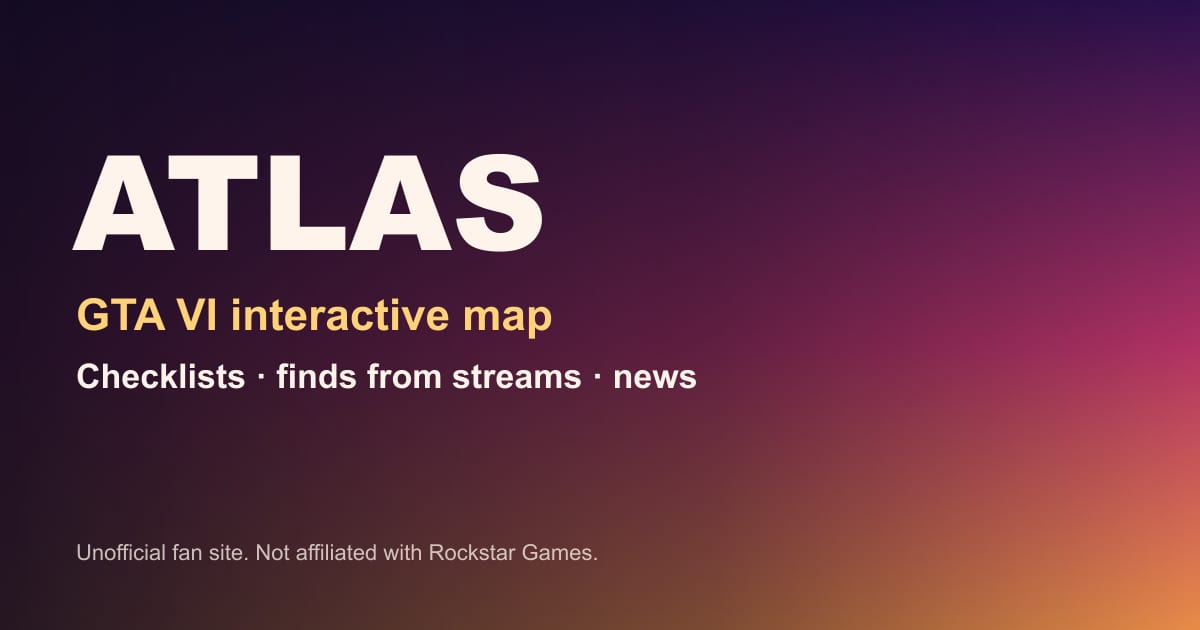
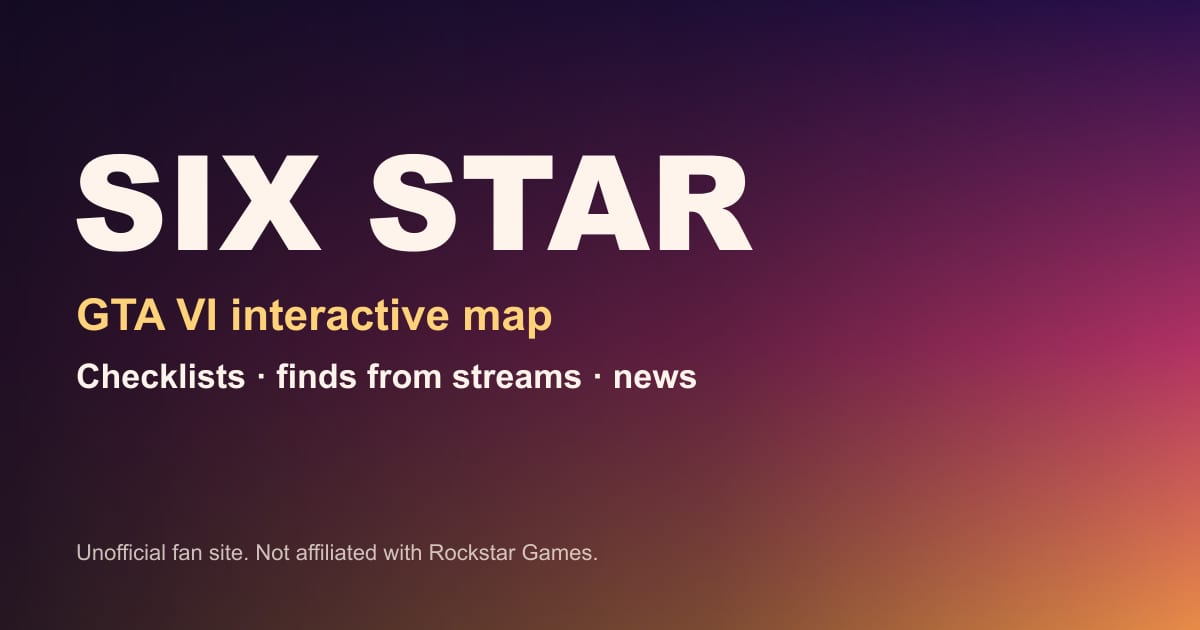
Attach sixstargta.com, rebrand to Six Star, open search engines
- wrangler: custom domains sixstargta.com + www, workers.dev off
- SITE.name "Six Star", indexable true, OG text regenerated
- npm run deploy: validate + build with the final URL + wrangler deploy
- Log the domain decision; refresh CONTEXT

Changed region(s): [[0.0617, 0.2413, 0.6475, 0.4222]]

diff --git a/src/config/site.ts b/src/config/site.ts
@@ -1,8 +1,8 @@
 import type { GameId } from "@/domain";
 
 export const SITE = {
-  /** Working title: final brand is decided after launch. */
-  name: "Atlas",
+  /** Brand (decided 2026-11-18, domain sixstargta.com). */
+  name: "Six Star",
   description: "Unofficial interactive map, checklists and guides for players.",
   gameId: "gta6" as GameId,
   defaultLocale: "en",
@@ -20,7 +20,7 @@ export const SITE = {
    * Search engines: false = robots.txt blocks crawling and pages say noindex. Turn on once the final
    * domain is attached, so search ranking is not built on the temporary workers.dev address.
    */
-  indexable: false,
+  indexable: true,
   /**
    * Cloudflare Web Analytics (cookieless, free). Dashboard > Analytics & Logs > Web Analytics > Add a site >
    * hostname > "Manage site" shows a JS snippet: paste only its token here. Empty = no analytics script.

diff --git a/CONTEXT.md b/CONTEXT.md
@@ -8,7 +8,7 @@ Owner works solo; Claude acts as product manager + architect. Replies: concise, 
 Revenue/time-to-market beats polish. Flag work with no path to revenue.
 
 ## Hard rules
-- No game/character trademarks in domain or brand (`gta`, `vice`, `leonida`...). Always show the "unofficial" disclaimer (`src/config/site.ts`).
+- Domain sixstargta.com, brand "Six Star" (2026-11-18, founder's choice). No GTA logo or "GTA" in the visual brand; never look official. Always show the "unofficial" disclaimer (`src/config/site.ts`).
 - Pin IDs are immutable (`pin_<ULID>`); progress is keyed on them. Never delete content: `status: "deprecated"`.
 - Coordinates are normalized 0..1. Text lives in `src/i18n` by key convention; data has no language.
 - User data only through `StorageAdapter`. Completion % is computed, never stored.
@@ -33,7 +33,7 @@ Map: community map first (chosen in the first 2 days after launch by what the ma
 our own later; switching maps = calibration, pins untouched. Until the map exists, finds are published WITHOUT coord
 (`Pin.coord` optional: pin page + checklists + progress, skipped on the map); re-sending the same row with a coord places it.
 Entry tool also has "Hızlı not" (link + time + note = draft) and opens rows from the list to finish/place them.
-Search engines stay off (`SITE.indexable=false`) until the final domain; OG image `public/og.jpg` (`npm run media`).
+Search engines on (`SITE.indexable=true`) since the domain went live; OG image `public/og.jpg` (`npm run media`).
 Social: TikTok only for now (one short per find).
 
 Map UX: tapping a pin opens `src/features/map/PinCard.tsx` (not a Leaflet popup); `?pin=<id>` mirrors the selection.
@@ -49,14 +49,13 @@ Full, dated log: `docs/DECISIONS.md` (record every accepted proposal there). Ide
 - Visual identity: LeonidaMap-like hub with a neon-sunset look, single dark theme, official art with credit, own SVG scene as fallback via `SITE.officialArt` (2026-11-17, done). Originals stay untracked in `media-src/`; `npm run media` writes `public/media/`.
 - Language: EN + TR (done 2026-11-17). EN at root, TR under `/tr/`; thin route files in `src/app` and `src/app/tr` call shared views in `src/views/` with a `locale`. UI text: `src/i18n/ui.en.ts` + `ui.tr.ts` (TR is type-checked complete). Client components use `useT()` / `useHref()` from `src/i18n/client.tsx`. Social media: one English account only.
 - Revenue: decided later by product quality/scope; donations first.
-- Domain: undecided (candidates considered: amirvc.com preferred over viceamir.com for trademark safety). Final brand after launch.
-- Hosting: Cloudflare Workers Static Assets (not Pages), static export, `wrangler.jsonc`, Worker name `atlas`. Decided 2026-11-17.
+- Domain: sixstargta.com (+ www), brand "Six Star" (2026-11-18). No backup domain bought.
+- Hosting: Cloudflare Workers Static Assets (not Pages), static export, `wrangler.jsonc`, Worker name `atlas` (internal name, kept). workers.dev disabled.
 - Ads: after traffic exists; check current ad-network thresholds before applying.
 
 ## Next
-1. Live: https://atlas.theshamsfr.workers.dev (Cloudflare account theshamsfr; GitHub fresezar). Deploys are manual for now:
-   `NEXT_PUBLIC_SITE_URL=https://atlas.theshamsfr.workers.dev npm run build:static` then `npx wrangler deploy`.
+1. Live: https://sixstargta.com (Cloudflare account theshamsfr; GitHub fresezar). Deploy: `npm run deploy`.
    Optional: connect the repo to Workers Builds (Worker name must stay `atlas`) for auto-deploy on push.
-2. Analytics (Cloudflare Web Analytics), robots, OG image.
+2. Done: analytics, robots, OG image, domain.
 3. Launch day: real map art + pins from streamers via dev tool; each pin -> short video.
 4. Phase 2: vehicle/weapon DB (stats carry method + sample size), economy calculators, ads, accounts/Supabase.

diff --git a/docs/DECISIONS.md b/docs/DECISIONS.md
@@ -7,6 +7,16 @@ Durum: **Kabul** = uygulanabilir · **Onay bekliyor** = "Uygula" denene kadar ko
 İlgili: `CONTEXT.md` (kısa devir notu), `docs/BACKLOG.md` (fikir havuzu), `docs/COMPETITORS.md` (rakipler),
 `docs/PROJECT_BRIEF.md` (ilk brief ve ilk kararlar, 2026-11-16).
 
+## 2026-11-18
+
+| Karar | Neden | Durum |
+|---|---|---|
+| Domain: **sixstargta.com** (Cloudflare Registrar, kurucu aldı). Marka "Atlas" → **"Six Star"**. www aynı siteyi açar, canonical çıplak domaine işaret eder; workers.dev kapalı | Akılda kalıcı, oyunu çağrıştırıyor; logo/görselde "GTA" kullanılmaz | Kabul, uygulandı |
+| Yedek domain sixstarmap.com alınmadı (önerilmişti). İtiraz gelirse 301 ile geçilecek markasız domain o gün alınır | Kurucunun tercihi | Kabul |
+| Arama motorları açıldı (`SITE.indexable = true`), OG görseli "SIX STAR" | Domain bağlandı | Kabul, uygulandı |
+| Deploy tek komut: `npm run deploy` (doğrulama + build + sixstargta.com adresiyle yayın) | Site adresini elle yazma hatası olmasın | Kabul, uygulandı |
+| Premium DNS alınmaz; Cloudflare DNS ücretsiz | Gereksiz masraf | Kabul |
+
 ## 2026-11-17
 
 | Karar | Neden | Durum |
@@ -83,6 +93,5 @@ Durum: **Kabul** = uygulanabilir · **Onay bekliyor** = "Uygula" denene kadar ko
 - Çift dilli topluluk modeli: önerildi (2026-11-17), kurucunun görüşü bekleniyor.
 - ~~Hub tasarımına geçiş planı~~ → uygulandı (2026-11-17).
 - Topluluk haritası kaynağı ve lisans doğrulaması: çıkıştan sonraki ilk 2 günde seçilecek (2026-11-17).
-- Domain: TikTok'tan gelecek trafik için çıkış haftasında gerekli; arama motorları domain gelince açılır.
-- Cloudflare Web Analytics token'ı (kurucu panelden alacak).
-- Domain ve nihai marka.
+- ~~Domain ve nihai marka~~ → sixstargta.com, "Six Star" (2026-11-18).
+- ~~Cloudflare Web Analytics token'ı~~ → eklendi (2026-11-17). Yeni domain Web Analytics'te ayrıca eklenmeli (kurucu panelden).
